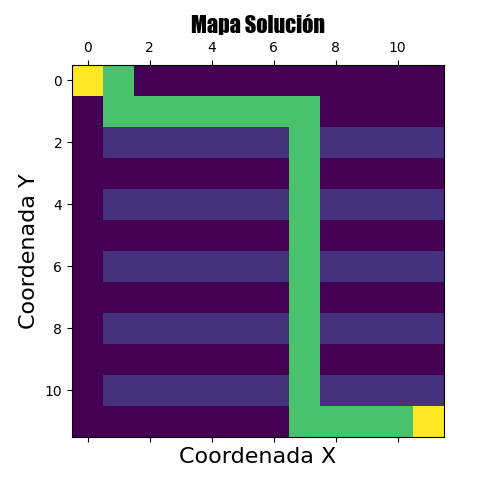
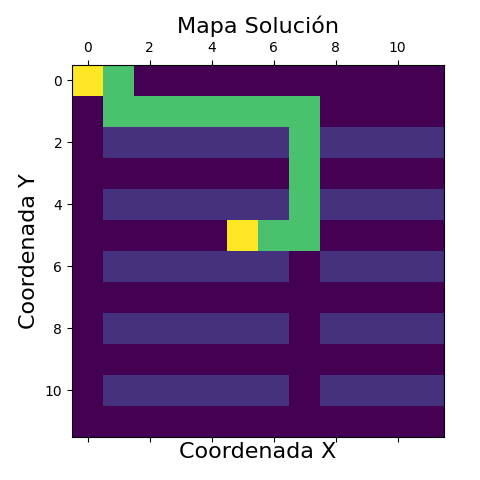
Interfaz grafica agregada

Changed region(s): [[0.375, 0.4375, 0.9375, 0.9688], [0.375, 0.0312, 0.7188, 0.0938]]

diff --git a/Movimiento/A_estrella.py b/Movimiento/A_estrella.py
@@ -1,14 +1,16 @@
 import matplotlib.pyplot as plt
 import Laberinto as Lab
+from PIL import Image
+
 
 class nodoo():
     def __init__(self, parent=None, position=None):
         self.parent = parent
         self.position = position
 
-        self.g = 0 #G es la distancia entre el nodo actual y el nodo inicial
-        self.h = 0 #H es la heurística: distancia estimada desde el nodo actual hasta el nodo final
-        self.f = 0 #F es el costo total del nodo.
+        self.g = 0 # G es la distancia entre el nodo actual y el nodo inicial
+        self.h = 0 # H es la heurística: distancia estimada desde el nodo actual hasta el nodo final
+        self.f = 0 # F es el costo total del nodo.
     def __eq__(self, other):
         return self.position == other.position
 
@@ -74,60 +76,83 @@ def astar(maze, start, end):
 
 
 def MostrarMapa(NombreMapa, titulo, maze):
-    #Generar Figura
+    # Generar Figura
     plt.matshow(maze)
-    #Agregar nombre a los ejes
+    # Agregar nombre a los ejes
     plt.xlabel("Coordenada X", size = 16,)
     plt.ylabel("Coordenada Y", size = 16)
-    #Agregar el titulo
-    plt.title(titulo, 
-          fontdict={'family': 'fantasy', 
-                    'color' : 'black',
-                    
-                    'size': 16},
-          loc='center')
+    # Agregar el titulo
+    plt.title(
+        titulo, 
+        fontdict={'color':'black', 'size':16},
+        loc='center')
 
-    #Guardar figura
+    # Guardar figura
     plt.savefig(NombreMapa)
     
-    #Generar Ventana emergente
-    plt.show()    
+    # Generar Ventana emergente
+    # plt.show()    
+
+def validacion_coordenadas(Ax, Ay, Bx, By, maze):
+    # Saber el tamaño de la matriz del laberinto
+    val_y=len(maze) -1      # Alto de laberinto
+    val_x=len(maze[0]) -1   # Ancho del laberinto
+
+    # Validamos que este dentro del mapa
+    if (0<=Ax<=val_x) and (0<=Ay<=val_y) and (0<=Bx<=val_x) and (0<=By<=val_y):
+        return True
+    else:
+        return False
 
 
 def main(Ax, Ay, Bx, By):
+
+    # Cast: Conversión string a int
+    Ax, Ay, Bx, By = int(Ax), int(Ay), int(Bx), int(By)
     
-    #Obtener el Mapa
+    # Obtener el Mapa
     maze = Lab.Mapa()
 
-    #Establecer los puntos de comienzo y fin
-    PuntoStart = (Ax, Ay) # 0,0
-    PuntoEnd = (Bx, By) #7,7
-    #PuntoStart = (2,2) # 0,0
-    #PuntoEnd = (16,16) #7,7
-
-    print('\nLa trayectoria solución que se debe seguir es:')
-    #Pasamos los parametros del mapa, el punto A y B y devuelve el string solucion
-    path = astar(maze, PuntoStart, PuntoEnd) 
-    print(path)
-
-    #Agregar al Mapa la secuencia de la solucion
-    lista = []
-    for i in range(len(path)):
-        num1 = path[i][0] #Coordenada X
-        num2 = path[i][1] #Coordenada Y
-        lista.append(num1)
-        lista.append(num2)
+    # Validar que el input sea el correcto (== True), sino resaltar el error
+    if validacion_coordenadas(Ax, Ay, Bx, By, maze):
     
-    #Colorear los puntos solucion
-    for i in range(0,len(lista),2):
-        maze[lista[i]][lista[i+1]] = 5 
-    #Puntos A y B de distinto Color
-    maze[lista[0]][lista[1]] = 7 
-    maze[lista[len(lista)-2]][lista[len(lista)-1]] = 7 
-    #Mostrar el Mapa con la solucion
-    MostrarMapa('mapa_solucion.png','Mapa Solución', maze)
-    
+        # Establecer los puntos de comienzo y fin
+        PuntoStart = (Ax, Ay) # 0,0
+        PuntoEnd = (Bx, By) #7,7
+        # PuntoStart = (2,2) # 0,0
+        # PuntoEnd = (16,16) # 7,7
 
+        print('\nLa trayectoria solución que se debe seguir es:')
+        # Pasamos los parametros del mapa, el punto A y B y devuelve el string solucion
+        path = astar(maze, PuntoStart, PuntoEnd) 
+        print(path)
+
+        # Agregar al Mapa la secuencia de la solucion
+        lista = []
+        for i in range(len(path)):
+            num1 = path[i][0] # Coordenada X
+            num2 = path[i][1] # Coordenada Y
+            lista.append(num1)
+            lista.append(num2)
+        
+        # Colorear los puntos solucion
+        for i in range(0,len(lista),2):
+            maze[lista[i]][lista[i+1]] = 5 
+        # Puntos A y B de distinto Color
+        maze[lista[0]][lista[1]] = 7 
+        maze[lista[len(lista)-2]][lista[len(lista)-1]] = 7 
+        # Mostrar el Mapa con la solucion
+        MostrarMapa('mapa_solucion.png','Mapa Solución', maze)
+
+        # Output para interfaz gráfica
+        imagen_output = Image.open('mapa_solucion.png')
+        return path, imagen_output
+    
+    else:
+        print("ERROR: Coordenada fuera del Laberinto")
+        return "ERROR: Coordenada fuera del Laberinto", None
+    
+"""
 if __name__ == '__main__':
     print('--------------------Método A*--------------------')
     print('Llegar del punto A al punto B con el método A*')
@@ -169,3 +194,4 @@ if __name__ == '__main__':
             print("Ingrese una Coordenada valida")
 
     main(Ax, Ay, Bx, By)
+"""

diff --git a/Movimiento/Laberinto.py b/Movimiento/Laberinto.py
@@ -1,6 +1,6 @@
 def Mapa():
-    #Definir el mapa del problema
-    #Los 0 es por donde se puede pasar y los 1 por donde no se puede cruzar
+    # Definir el mapa del problema
+    # Los 0 es por donde se puede pasar y los 1 por donde no se puede cruzar
         
     maze = [[0, 0, 0, 0, 0, 0, 0, 0, 0, 0, 0, 0],
             [0, 0, 0, 0, 0, 0, 0, 0, 0, 0, 0, 0],
@@ -14,23 +14,5 @@ def Mapa():
             [0, 0, 0, 0, 0, 0, 0, 0, 0, 0, 0, 0],
             [0, 1, 1, 1, 1, 1, 1, 0, 1, 1, 1, 1],
             [0, 0, 0, 0, 0, 0, 0, 0, 0, 0, 0, 0]]
-    """
-    maze = [[0, 0, 0, 0, 0, 0, 0, 0, 0, 0, 0, 0, 0, 0, 0, 0, 0],
-            [0, 0, 0, 0, 0, 0, 0, 0, 0, 0, 0, 0, 0, 0, 0, 0, 0],
-            [0, 0, 0, 0, 0, 0, 0, 0, 0, 0, 1, 0, 0, 0, 0, 0, 0],
-            [0, 0, 0, 0, 0, 0, 0, 0, 0, 1, 0, 0, 0, 0, 0, 0, 0],
-            [0, 0, 0, 0, 0, 0, 0, 0, 1, 0, 0, 0, 0, 0, 0, 0, 0],
-            [0, 0, 0, 0, 0, 0, 0, 0, 1, 0, 0, 0, 0, 0, 0, 0, 0],
-            [0, 0, 0, 0, 0, 0, 0, 0, 1, 0, 0, 0, 0, 0, 0, 0, 0],
-            [0, 0, 0, 0, 0, 0, 0, 0, 1, 0, 0, 0, 0, 0, 0, 0, 0],
-            [0, 0, 0, 0, 0, 0, 0, 0, 1, 0, 0, 0, 0, 0, 0, 0, 0],
-            [0, 0, 0, 0, 0, 0, 0, 0, 1, 0, 0, 0, 0, 0, 0, 0, 0],
-            [0, 0, 0, 0, 0, 0, 0, 0, 1, 0, 0, 0, 0, 0, 0, 0, 0],
-            [0, 0, 0, 0, 0, 0, 0, 0, 1, 0, 0, 0, 0, 0, 0, 0, 0],
-            [0, 0, 0, 0, 0, 0, 0, 0, 1, 0, 0, 0, 0, 0, 0, 0, 0],
-            [0, 0, 0, 0, 0, 0, 0, 0, 1, 0, 0, 0, 0, 0, 0, 0, 0],
-            [0, 0, 0, 0, 0, 0, 0, 0, 1, 1, 1, 1, 0, 0, 0, 0, 0],
-            [0, 0, 0, 0, 0, 0, 0, 0, 0, 0, 0, 0, 0, 0, 0, 0, 0],
-            [0, 0, 0, 0, 0, 0, 0, 0, 0, 0, 0, 0, 0, 0, 0, 0, 0]]
-    """
+    
     return maze

diff --git a/Movimiento/gui_a_estrella.py b/Movimiento/gui_a_estrella.py
@@ -1,0 +1,17 @@
+"""
+GUI: Graphical User Interface
+Hacemos uso de Gradio: pip3 install gradio
+"""
+
+import gradio as gr
+from A_estrella import main
+
+# Gradio Format
+title = "Resolución de Laberinto 🚀"
+description = 'Input: Definir coordenadas. <br> Output: Path , Mapa'
+article="**Mario Bustillo 2022** | [Github](https://github.com/mabustillo14) | [Linkedin](https://www.linkedin.com/in/mario-bustillo/) 🤗"
+enable_queue=False
+
+demo = gr.Interface(fn=main, inputs=["text", "text", "text", "text"], outputs=["text","image"],title=title,description=description,article=article)
+
+demo.launch(enable_queue=enable_queue,debug=True)
